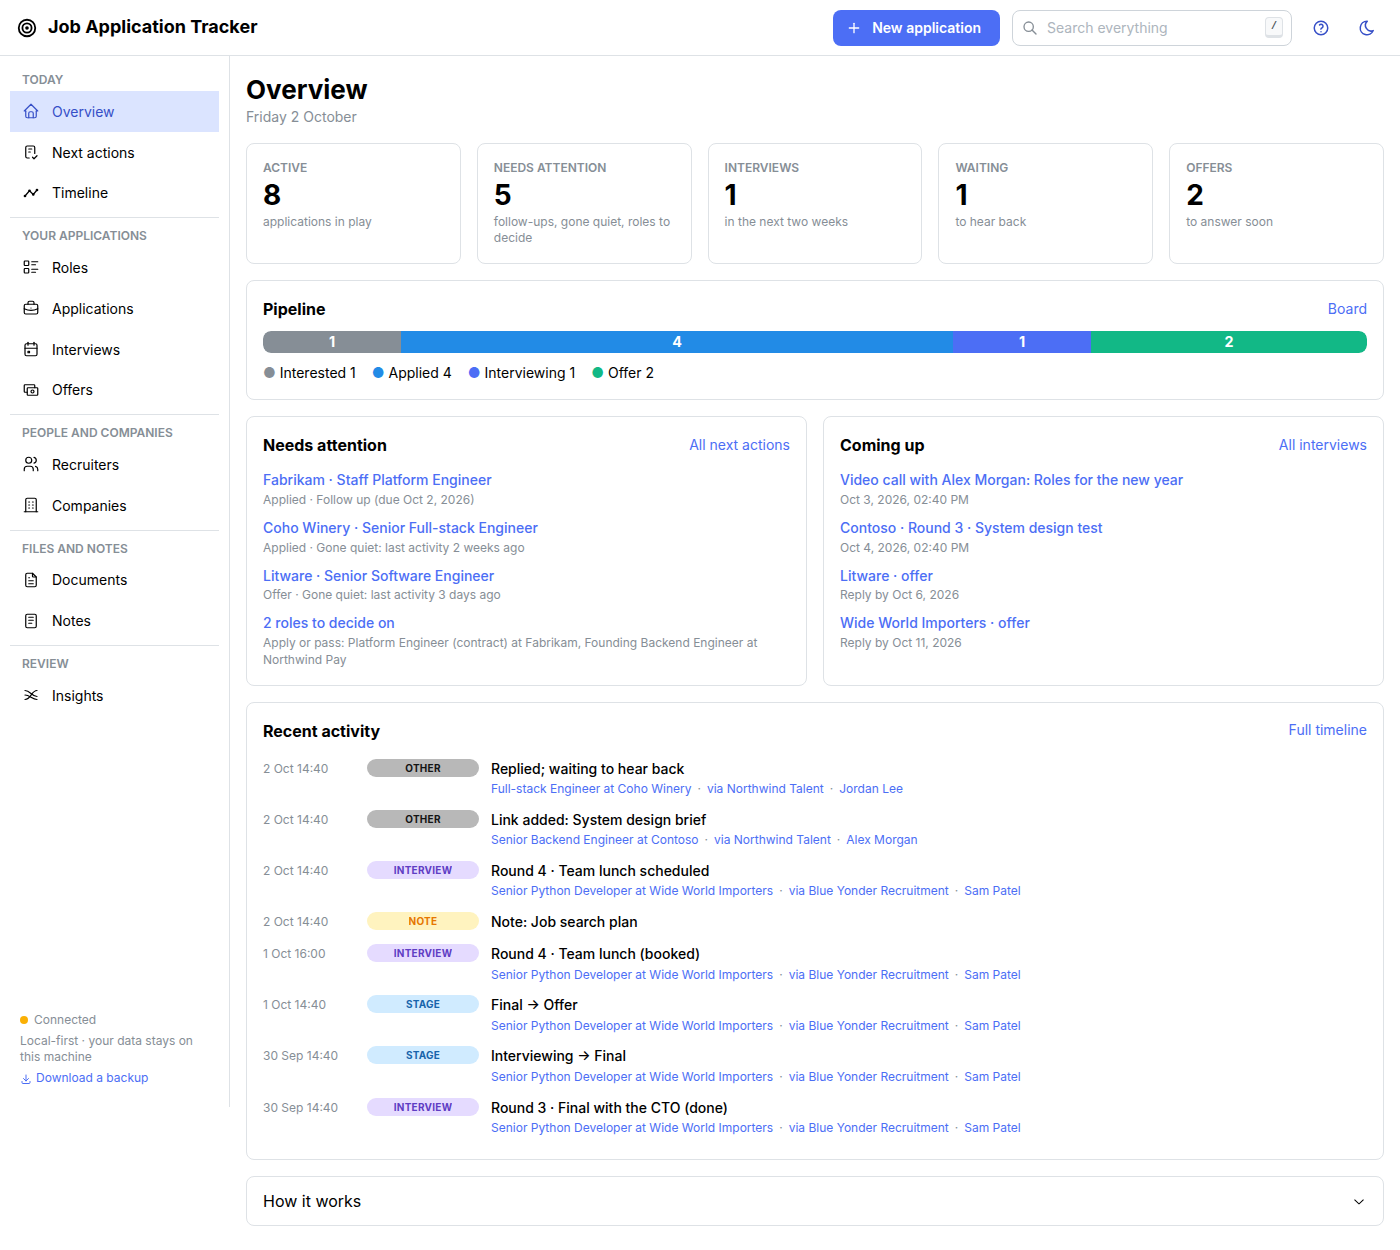
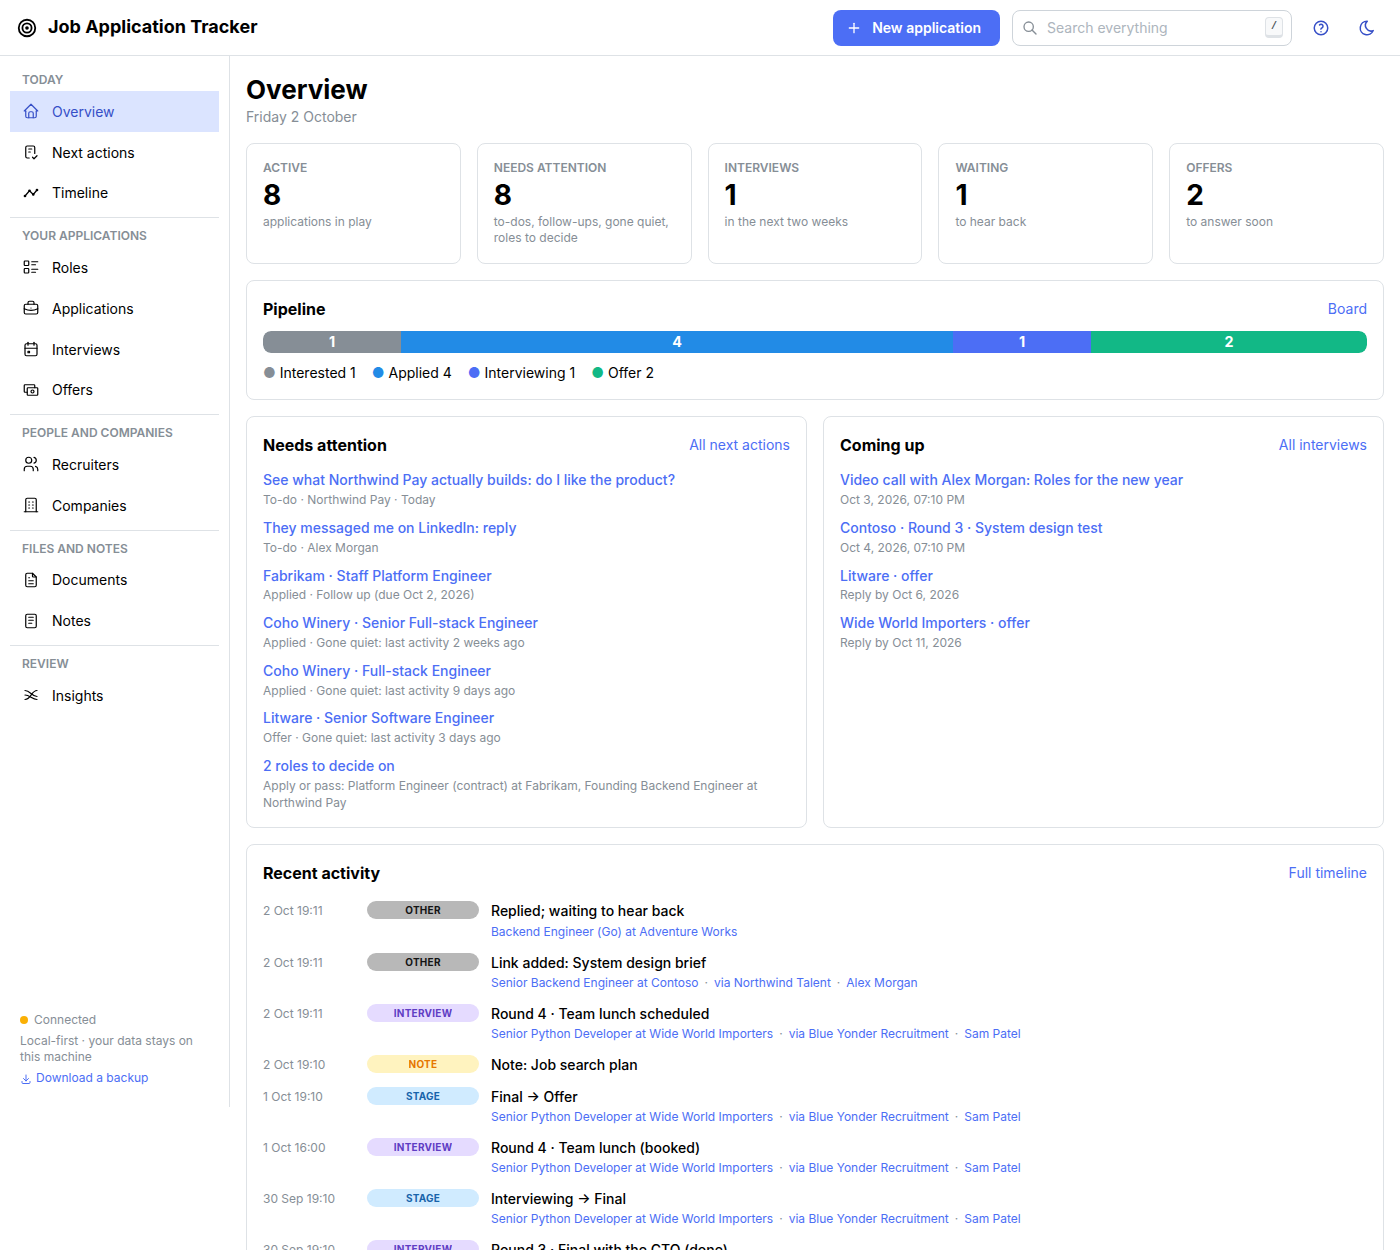
docs: to-dos in the guide, README, llms.txt and changelog; retake screenshots
The demo seed gains a few to-dos; the Overview, Next actions, Roles and person screenshots and two GIF frames are retaken.

diff --git a/scripts/seed_demo.py b/scripts/seed_demo.py
@@ -28,6 +28,7 @@ from jat.db.models import (
     Meeting,
     Offer,
     Role,
+    Todo,
 )
 from jat.domain.applications import create_application, history, log_activity, move
 from jat.domain.workflow import DEFAULT_WORKFLOW as W
@@ -324,6 +325,26 @@ def seed(path: Path) -> None:
                     meeting_url="https://meet.example.com/catch-up",
                     agenda="- Day rates for platform roles\n- Anything fully remote?",
                 ),
+            ]
+        )
+        # To-dos in your own words: about a person, a company, a role, and one about nothing.
+        fabrikam_role = s.query(Role).filter_by(title="Platform Engineer (contract)").one()
+        s.add_all(
+            [
+                Todo(text="They messaged me on LinkedIn: reply", entity_type="contact", entity_id=first_recruiter.id),
+                Todo(
+                    text="See what Northwind Pay actually builds: do I like the product?",
+                    entity_type="company",
+                    entity_id=startup.id,
+                    due_on=date.today(),
+                ),
+                Todo(
+                    text="Ask who's on the platform team",
+                    entity_type="role",
+                    entity_id=fabrikam_role.id,
+                    due_on=date.today() + timedelta(days=2),
+                ),
+                Todo(text="Update my portfolio site", done_at=days_ago(2)),
             ]
         )
         # A CV with two versions, the newer one sent to Contoso.

diff --git a/docs/guide/using-the-app.md b/docs/guide/using-the-app.md
@@ -61,12 +61,13 @@ applied too.
 
 Where things stand, at a glance:
 
-- **Counts**: active applications, how many need attention (follow-ups due, gone quiet and
-  roles to decide),
+- **Counts**: active applications, how many need attention (to-dos due, follow-ups due,
+  gone quiet and roles to decide),
   interviews in the next two weeks, how many you're waiting to hear back from, and offers to
   answer soon. Each one opens the page with the details.
 - **Pipeline**: active applications by stage.
-- **Needs attention** and **Coming up**: the top of [Next actions](#next-actions). Coming
+- **Needs attention** and **Coming up**: the top of [Next actions](#next-actions). Needs
+  attention starts with your [to-dos](#to-dos) due today or earlier, or with no date. Coming
   up lists up to six interviews, task deadlines and calls in time order, then offer reply
   deadlines.
 - **Recent activity**: the last two weeks of the [Timeline](#timeline), leaving out
@@ -83,6 +84,9 @@ or roles) but no applications, the Overview shows it as usual (recent activity t
 
 What needs doing, in this order:
 
+- **To-dos**: your own reminders (see [To-dos](#to-dos)): the ones due in the next two weeks
+  (overdue first), then the ones with no date, then later ones. Add one here, about anything
+  or nothing in particular.
 - **Offers to answer**: pending offers with a reply due in the next two weeks, or overdue.
 - **Waiting to hear back**: applications and people you've replied to (see
   [Waiting to hear back](#waiting-to-hear-back)), longest first. It turns red once you've
@@ -102,6 +106,23 @@ On the others: set a follow-up date (tomorrow, in 3 days, next week), **snooze**
 1 week, 2 weeks) so it stops nagging, or mark it **Ghosted**. A snoozed application, one with
 a follow-up date in the future, or one with an interview booked ahead never counts as gone
 quiet.
+
+### To-dos
+
+Short reminders in your own words, for anything the tracker doesn't already chase: *they
+messaged me, I need to reply*, *look into the company to see if I like what they do*, *ask
+for the salary band*.
+
+- **Add one** from the *To-dos* card on an application, company, agency or person page; from
+  the to-do button (a list with ticks) on a role, wherever roles are listed; or at the top of
+  Next actions, where **About** picks what it's about (or leave it empty). A date is optional.
+- **Tick it off** with its checkbox. It leaves Next actions and the Overview; on its page it
+  stays ticked (the last three) so you can untick one by mistake.
+- **Edit** (the pencil) changes the words or the date; the bin deletes it.
+- Overdue to-dos are marked in red, today's in orange. Each one links to what it's about (a
+  role's opens its company).
+- Deleting what a to-do is about keeps the to-do, about nothing in particular. Search finds
+  to-dos too.
 
 ## Timeline
 
@@ -287,7 +308,7 @@ How the search is going, for all time or the last 30 or 90 days:
 
 Type in the box at the top (or press <kbd>/</kbd>) and press Enter. It finds applications,
 companies, agencies, people (including their emails and phone numbers), interview prep and
-debriefs, calls and meetings (their agenda and notes), offers, timeline entries, notes,
+debriefs, calls and meetings (their agenda and notes), to-dos, offers, timeline entries, notes,
 documents, files, emails and links. Every word
 must match; case and accents don't matter.
 

diff --git a/README.md b/README.md
@@ -56,11 +56,11 @@ are at the top of every page.
 
 ![The Overview: counts, the pipeline by stage, what needs attention, what's coming up and recent activity](docs/screenshots/overview.png)
 
-**Next actions.** Offers to answer, who you're waiting to hear back from, interviews and calls
-waiting for an outcome, follow-ups due, roles to decide on, what's coming up and what's gone
-quiet. Follow up, snooze or mark Ghosted in one click.
+**Next actions.** Your own to-dos, offers to answer, who you're waiting to hear back from,
+interviews and calls waiting for an outcome, follow-ups due, roles to decide on, what's coming
+up and what's gone quiet. Follow up, snooze or mark Ghosted in one click.
 
-![Next actions: offers to answer, waiting to hear back, follow-ups, roles to decide and what's coming up](docs/screenshots/next-actions.png)
+![Next actions: your to-dos, offers to answer, waiting to hear back, follow-ups, roles to decide and what's coming up](docs/screenshots/next-actions.png)
 
 **Recruiters, their calls and the roles they pitch.** Book a call with an agenda, note how it
 went, add the roles they mentioned, then apply for or pass on each. Every person has a page
@@ -119,7 +119,7 @@ recruiters send roles that go somewhere.
 
 > 🚧 **Early development (0.1.0).** Every planned feature is built but hasn't been tested in
 > real use yet, so expect rough edges. See the [changelog](CHANGELOG.md). Tracking,
-> recruiters and person pages, calls and meetings, roles to decide, interview rounds, notes,
+> recruiters and person pages, calls and meetings, roles to decide, to-dos, interview rounds, notes,
 > links, files and emails, CV versions, the Overview, *Next actions* and *Timeline* pages,
 > waiting to hear back, insights (Sankey diagram, funnel stats, recruiter scorecards), offer
 > comparison, one-click backups and full-text search all work today. Everything marked ✅ is
@@ -142,6 +142,7 @@ recruiters send roles that go somewhere.
 | 🏠 | **Overview** (the home page): counts, the pipeline by stage, what needs attention, what's coming up and recent activity; a numbered *How it works* and **New application** on every page | ✅ Available |
 | 🕰 | **Timeline** across everything: every application, company, agency and person, by day or as lanes against time, filtered by period, category or who it's about | ✅ Available |
 | ⏰ | **Next actions**: offers to answer, who you're waiting on, follow-ups due, roles to decide, interviews, calls and deadlines coming up, rounds and calls waiting for an outcome, and applications gone quiet | ✅ Available |
+| ✅ | **To-dos** in your own words ("they messaged me, reply"), on their own or about a person, company, agency, role or application, with an optional date; tick them off on Next actions, the Overview or the page they're about | ✅ Available |
 | 🤔 | **Roles to decide**: add the roles a recruiter mentions on a call, then apply (it makes the application, through them) or pass with a reason | ✅ Available |
 | 📞 | **Calls and meetings** with people, outside any one application: book a recruiter catch-up with an agenda, then note how it went; shows on Next actions, the Overview and the Timeline | ✅ Available |
 | 📨 | **Waiting to hear back**: mark that you've replied, on an application or a person, and see who to chase | ✅ Available |

diff --git a/docs/guide/your-data.md b/docs/guide/your-data.md
@@ -33,7 +33,7 @@ job-search-data/
 ├── tracker.sqlite3   the database the app uses (not committed: rebuilt from export/)
 ├── export/           every table as JSON Lines, one record per line (committed)
 │   ├── _meta.json    export format and database version
-│   ├── applications.jsonl, companies.jsonl, contacts.jsonl, meetings.jsonl, roles.jsonl, …
+│   ├── applications.jsonl, companies.jsonl, contacts.jsonl, meetings.jsonl, roles.jsonl, todos.jsonl, …
 ├── notes/            your Markdown notes, one .md file each (committed)
 ├── files/            attachments: CVs, briefs, exported emails, as uploaded (committed)
 ├── config.toml       settings for this data folder: stages, snapshot timing (committed)

diff --git a/CHANGELOG.md b/CHANGELOG.md
@@ -59,6 +59,9 @@ is built and merged, but not yet tested in real use. Numbers in brackets are pul
   instead of only the getting-started steps (#52).
 - **Favicon**: the header's target mark shows in the browser tab, and as the icon when the
   tracker is added to a phone's home screen (#54).
+- **To-dos**: short reminders in your own words, on their own or about a person, company,
+  agency, role or application, with an optional date. Add and tick them off on Next actions,
+  the Overview and the page they're about; search finds them (#55).
 
 ### Under the hood
 - Python 3.12, FastAPI, SQLAlchemy, Alembic and SQLite; React 19, TypeScript, Mantine and
